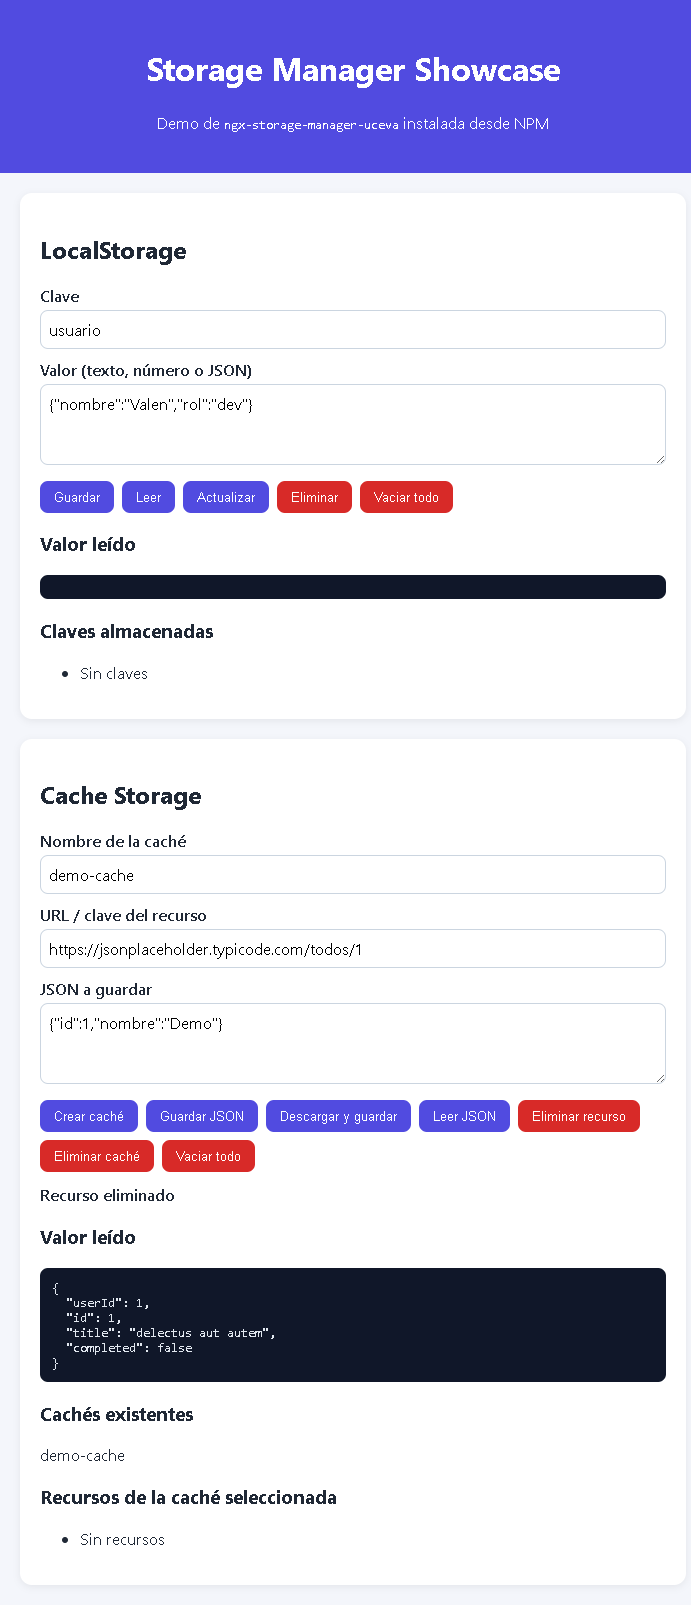
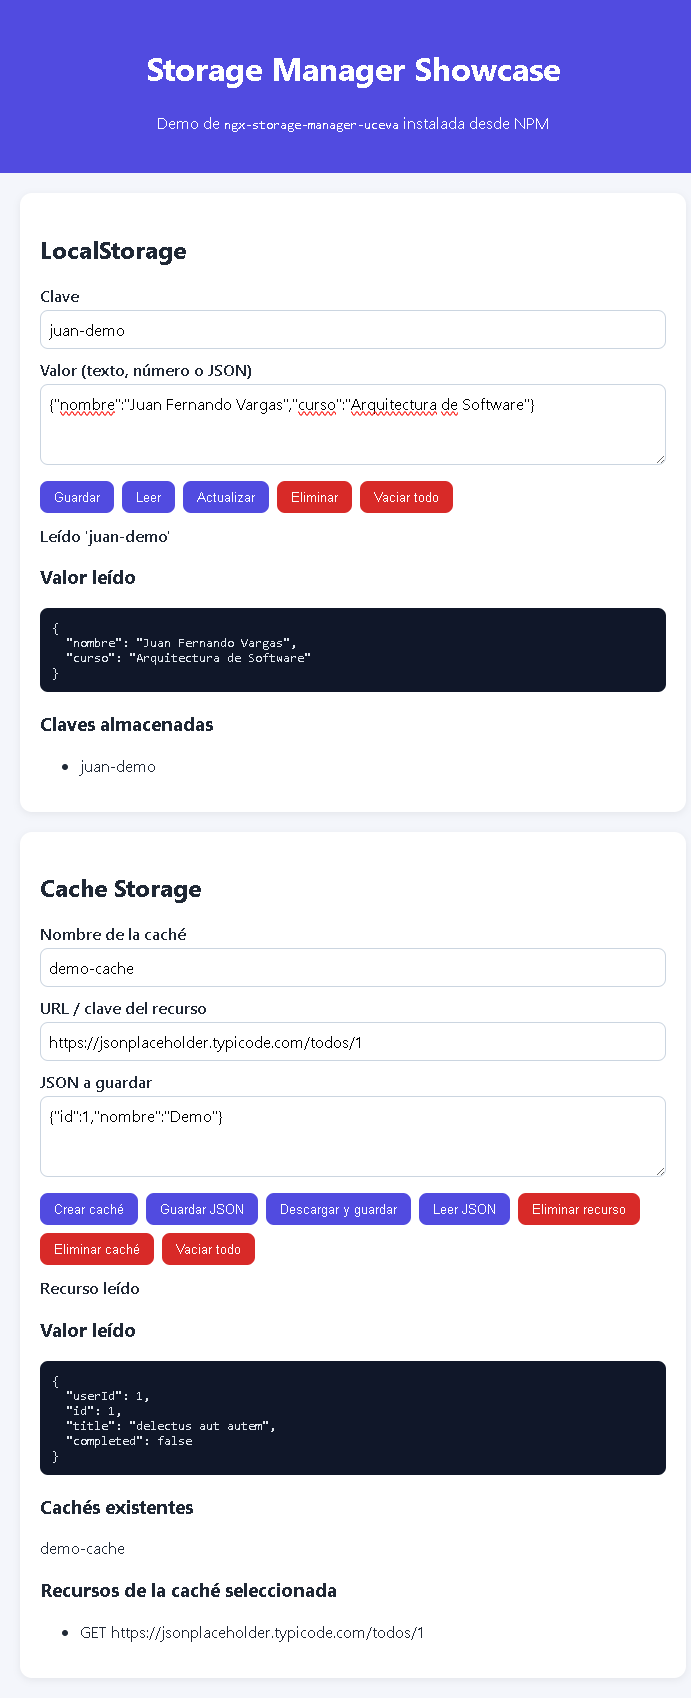
docs: complete populated delivery evidence

diff --git a/ENTREGA.md b/ENTREGA.md
@@ -1,0 +1,38 @@
+# Entrega — ngx-storage-manager-uceva
+
+## Autores
+
+- Valentina González Mejia
+- Juan Fernando Vargas
+
+## Enlaces
+
+- Repositorio: [STORAGE-MANAGER-PROJECT](https://github.com/valentina19-07/STORAGE-MANAGER-PROJECT)
+- Paquete NPM: [ngx-storage-manager-uceva](https://www.npmjs.com/package/ngx-storage-manager-uceva)
+- Documentación Compodoc: [índice](./storage-manager-lib/documentation/index.html)
+
+> La versión `1.0.0` está preparada para publicar. La publicación y la captura de la página NPM quedan pendientes de autenticación y publicación del paquete. El paquete todavía no está disponible en el registro, por lo que una instalación limpia desde NPM no puede verificarse aún.
+
+## Evidencias
+
+### Cobertura
+
+100% en Statements (90/90), Branches (13/13), Functions (46/46) y Lines (78/78).
+
+![Informe de cobertura](./evidence/01-coverage-100.png)
+
+### Compodoc
+
+- Servicios: [LocalStorageService](./storage-manager-lib/documentation/injectables/LocalStorageService.html) y [CacheStorageService](./storage-manager-lib/documentation/injectables/CacheStorageService.html)
+- Modelos: [StorageError](./storage-manager-lib/documentation/classes/StorageError.html) y [CacheEntry](./storage-manager-lib/documentation/interfaces/CacheEntry.html)
+- Capturas: [LocalStorageService](./evidence/02-compodoc.png), [CacheStorageService](./evidence/02-compodoc-cache-storage.png), [StorageError](./evidence/02-compodoc-storage-error.png) y [CacheEntry](./evidence/02-compodoc-cache-entry.png)
+
+### Showcase
+
+Captura tomada después de guardar y leer un dato en LocalStorage, crear la caché, descargar y leer un recurso.
+
+![Showcase con operaciones ejecutadas](./evidence/04-showcase.png)
+
+### NPM
+
+La captura `03-npm-package.png` se agregará cuando `ngx-storage-manager-uceva@1.0.0` esté publicado.
